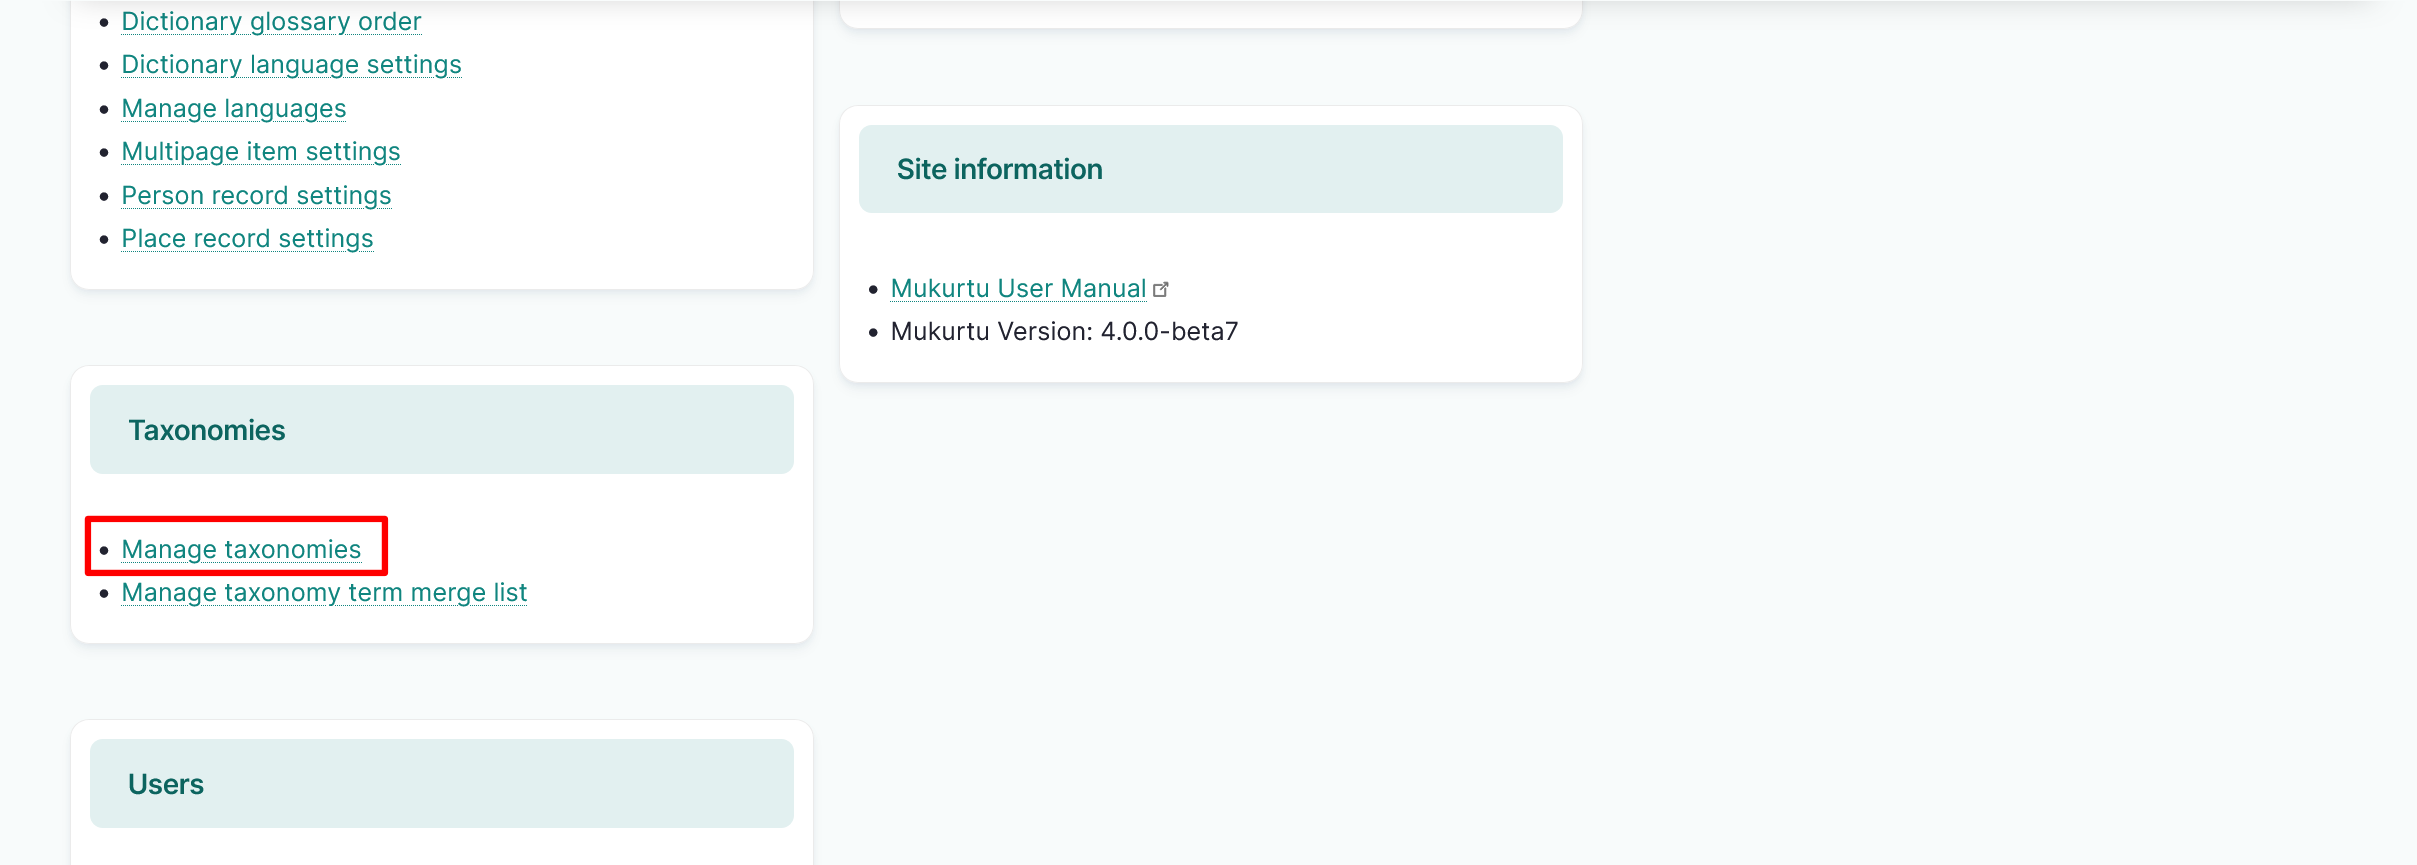
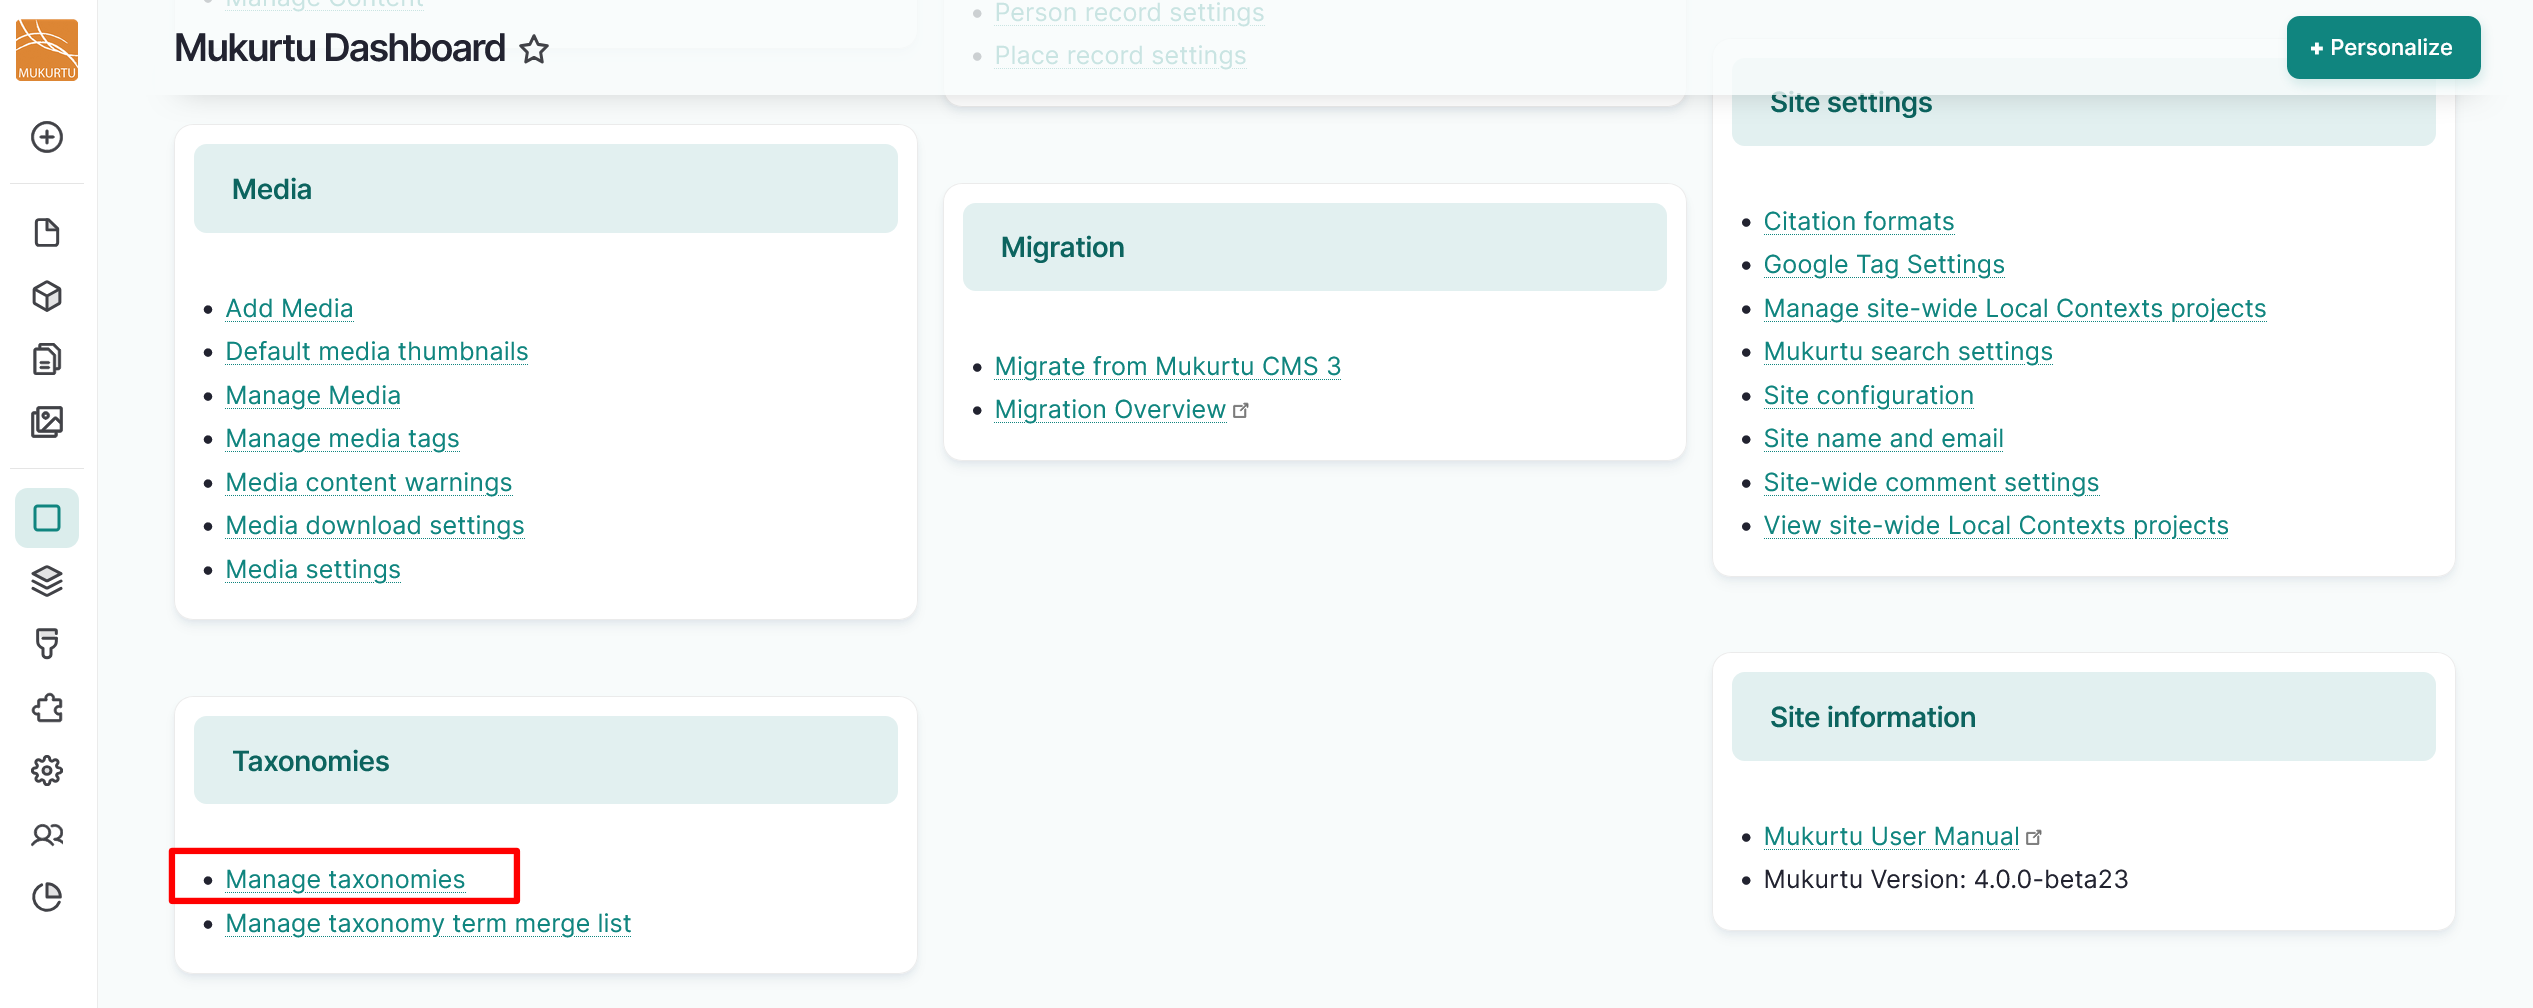
Update media content warnings
Updated media content warnings with new dashboard and updated verbiage.

diff --git a/docs/media/MediaContentWarnings.md b/docs/media/MediaContentWarnings.md
@@ -119,10 +119,6 @@ Follow these steps to apply a media content warning to a media asset.
 
     - From your dashboard, navigate to the **Media** section and select the **Manage Media** link. 
         - Under the **Operations** heading, select the "Edit" button from the dropdown button menu.
-    - From a content item, select a content item. 
-        - Select the small, round edit icon on the top right of the media asset. When you select it, it will present a dropdown menu with the options edit or delete the media asset. Select the **Edit** link.
-
-        ![Screenshot of a media asset showing the location of the edit button](../_embeds/mediawarnings5.png)
 
     - From a new media asset, follow the steps outlined in the [Create Media Assets](../media/CreateMediaAssets.md) articles to apply media tags.
 
